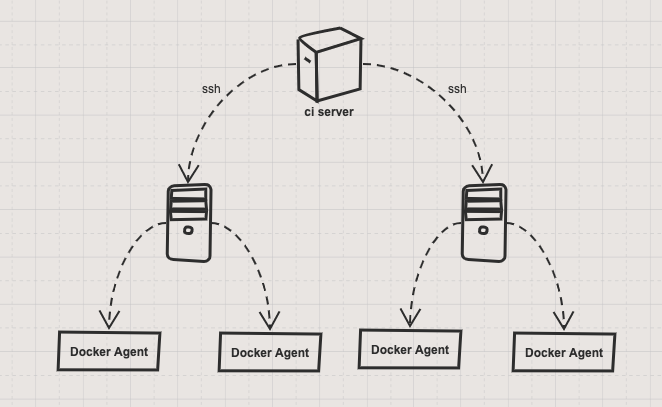
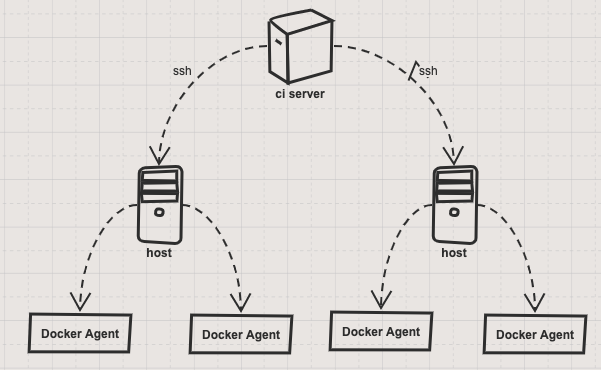
update title and img

diff --git a/en/agents/ssh_host.md b/en/agents/ssh_host.md
@@ -1,6 +1,6 @@
-# Auto Setup Agent
+# Auto Setup Agent - SSH HOST
 
-Another way to setup agent is config hosts on ci server, and then flow.ci will create and manage agent by docker on the host automatically.
+Another way to setup agent is config hosts on ci server, and then flow.ci will create and manage agent by docker on the host via ssh automatically.
 
 ## Introduction
 
